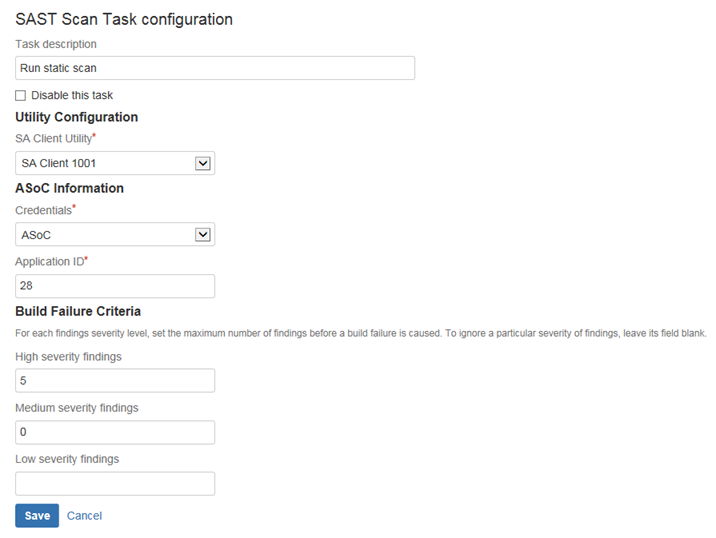
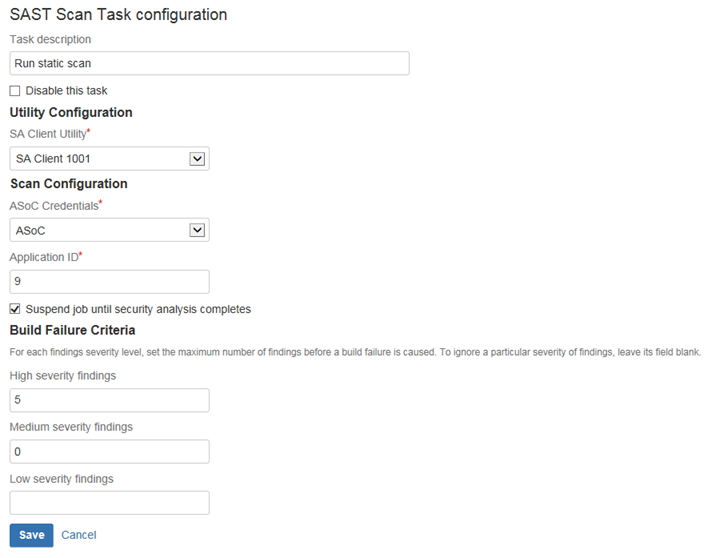
Update readme

Changed region(s): [[0.0, 0.0, 0.9832, 0.9814]]

diff --git a/README.md b/README.md
@@ -21,7 +21,7 @@ Easily integrate [IBM Application Security on Cloud](https://appscan.ibmcloud.co
 
 2. Use the Bamboo administration dashboard to add the SA Client capability to your server (for local agents) or to your remote agents. Specify the path to the Static Analyzer Client Utility.
 
-   ![](https://github.com/AppSecDev/asoc-bamboo-plugin/blob/master/images/install2.png)
+   ![](https://github.com/AppSecDev/asoc-bamboo-plugin/blob/master/images/install2.png)
 
 3. Enter your IBM Application Security on Cloud account user name and password in the Bamboo shared credentials page.
 
@@ -29,11 +29,11 @@ Easily integrate [IBM Application Security on Cloud](https://appscan.ibmcloud.co
 
 1. Add the SAST scan task to your build plan after your artifacts have been built. The SAST scan task will generate an intermediate representation of your artifacts and submit it to the cloud service for scanning.
 
-   ![](https://github.com/AppSecDev/asoc-bamboo-plugin/blob/master/images/task1.png)
+   ![](https://github.com/AppSecDev/asoc-bamboo-plugin/blob/master/images/task1.png)
 
 2. Enter information for the SAST scan task:
 
-   ![](https://github.com/AppSecDev/asoc-bamboo-plugin/blob/master/images/task2.png)
+   ![](https://github.com/AppSecDev/asoc-bamboo-plugin/blob/master/images/task2.png)
 
    - Select the client utility to use.
    
@@ -41,21 +41,23 @@ Easily integrate [IBM Application Security on Cloud](https://appscan.ibmcloud.co
    
    - Enter the ID of the application to associate with your scan.
    
-   - Optionally, specify the criteria by which a build failure occurs when security findings are found.
+   - Select whether the build job should wait for the scan to complete.
+   
+   - If you chose to wait for the scan to complete, then you can optionally specify the criteria by which a build failure occurs when security findings are found.
 
 # Scan Results after a Build
 
-1. The SAST scan task publishes two artifacts:
+1. The SAST scan task publishes the following artifacts:
 
    ![](https://github.com/AppSecDev/asoc-bamboo-plugin/blob/master/images/result1.png)
 
    - IRX - this is the intermediate representation of your artifacts that is uploaded to the cloud service for scanning.
    
-   - Scan Results - HTML report of the security findings that are found.
+   - Scan Results - HTML report of the security findings that are found (only if waiting for the scan to complete option is selected).
 
 2. Messages about the outcome of the scan will also be written to the build log:
 
-   ![](https://github.com/AppSecDev/asoc-bamboo-plugin/blob/master/images/result2.png)
+   ![](https://github.com/AppSecDev/asoc-bamboo-plugin/blob/master/images/result2.png)
 
 # License
 
